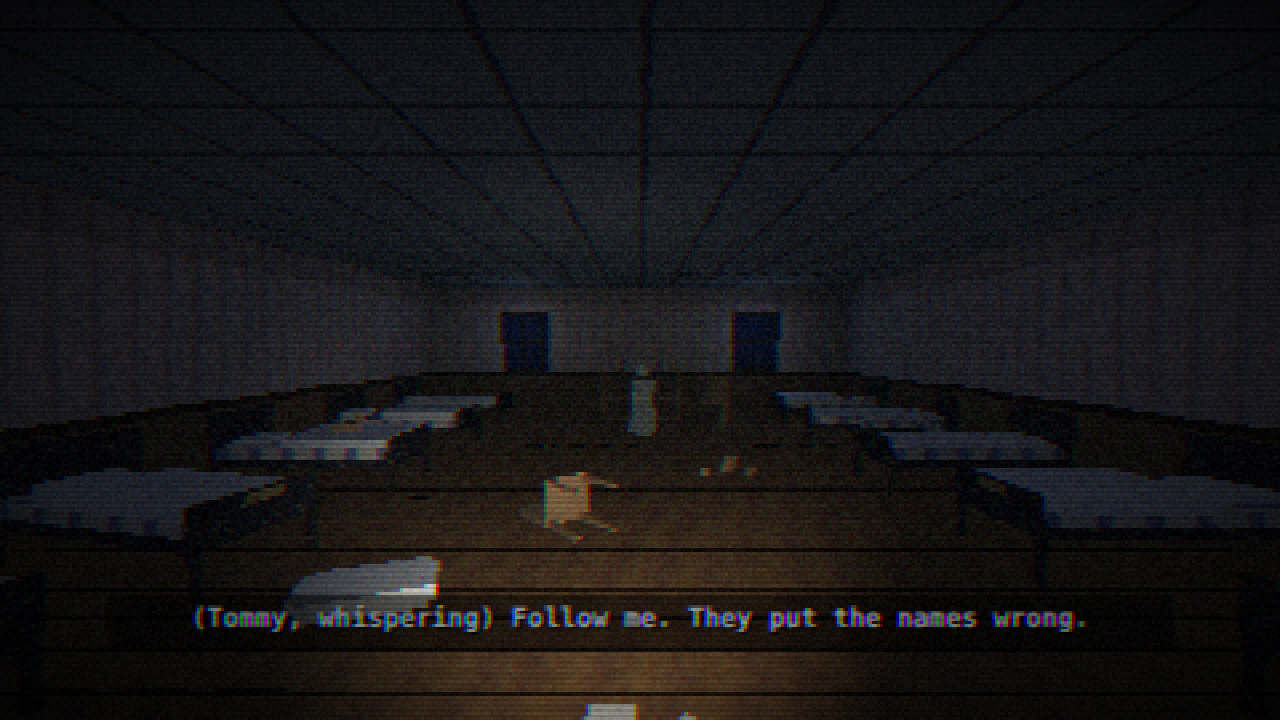
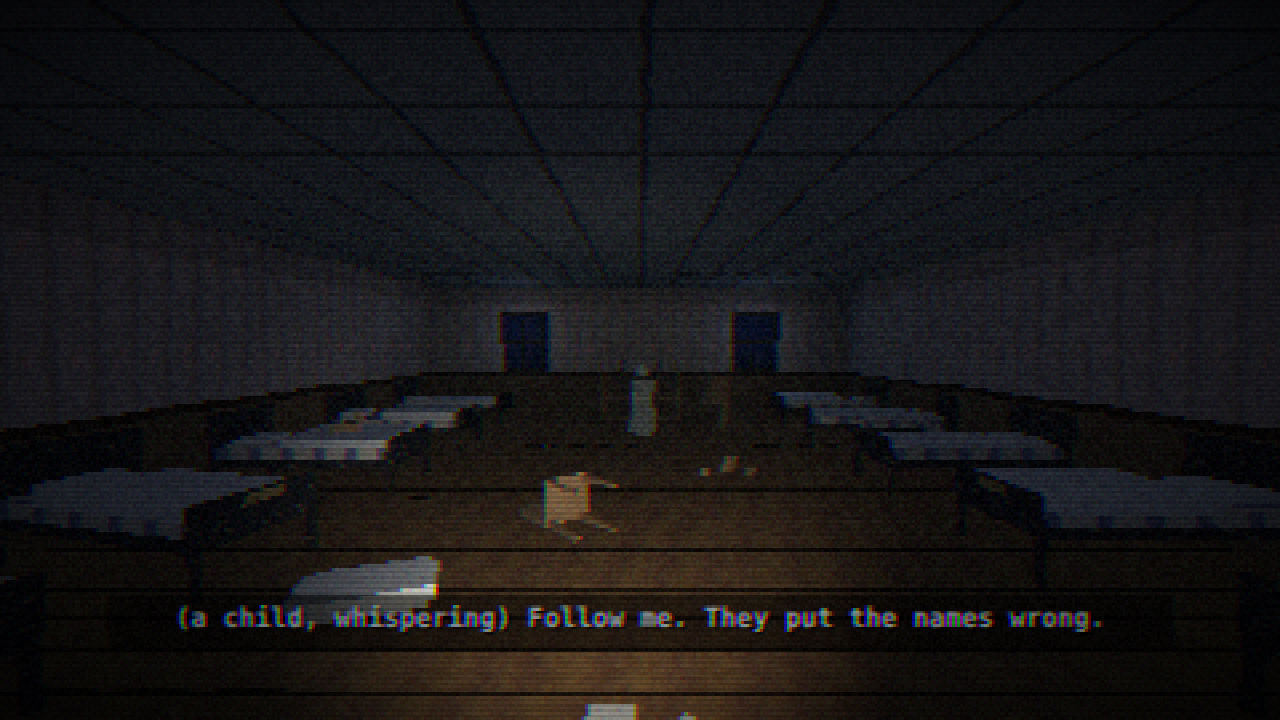
Subtitle ghost children as 'a child' until their name is known
Claude-Session: https://claude.ai/code/session_01Kt2ajWcwzg7QhP3mDk3ZUu

Changed region(s): [[0.125, 0.825, 0.875, 0.8861]]

diff --git a/src/mockups/stills.js b/src/mockups/stills.js
@@ -70,7 +70,7 @@ const STILLS = {
       aim(world.camera, [5.85, 1.6, 12.4], 0, -2);
     },
     ui(ctx) {
-      subtitle(ctx, '(Tommy, whispering) Follow me. They put the names wrong.');
+      subtitle(ctx, '(a child, whispering) Follow me. They put the names wrong.');
     },
   },
   // Low sanity: aberration, blur, heavy vignette, tilt, fake children.

diff --git a/CHANGELOG.md b/CHANGELOG.md
@@ -2,6 +2,7 @@
 
 Newest first. One line per change.
 
+- 0.1.17 — Owner decision: ghost children are subtitled as "a child" until the player learns their name; Tommy still approved.
 - 0.1.16 — Tommy, low-sanity and rewind stills re-rendered in the approved smaller dorm.
 - 0.1.15 — Dorm mockup revised after owner feedback: smaller room (10 beds), more mess (unmade beds, sheet pile, toppled chair, papers, blocks); new props chair, papers, blocks, sheet pile.
 - 0.1.14 — 0.2 design picks recorded; mockup stills for intro, hub, dorm, Tommy, low sanity and rewind rendered with the real engine (props, room textures, per-level ambient, new screen effects: blur, aberration, eyelids, vignette, rewind).

diff --git a/docs/DESIGN_0.2.md b/docs/DESIGN_0.2.md
@@ -19,6 +19,8 @@ Rewards: Tommy's wooden horse (toy), the first statue piece, the first page of T
 ## Tommy
 Seen only far away (corridor ends, doorways), leads with footsteps and laughter, speaks only in
 short subtitled whispers: hints, and the line after a rewind.
+Subtitles label him "(a child, whispering)" until the player learns his name (his name plate or
+the dorm register), then "(Tommy, whispering)". Same rule for every ghost child.
 
 ## Mockup stills (docs/mockups/stills-0.2/, made with the real renderer: mockup.html)
 intro_wake, hub, dorm, tommy, low_sanity, rewind. Approval status is tracked in HANDOFF.md.
